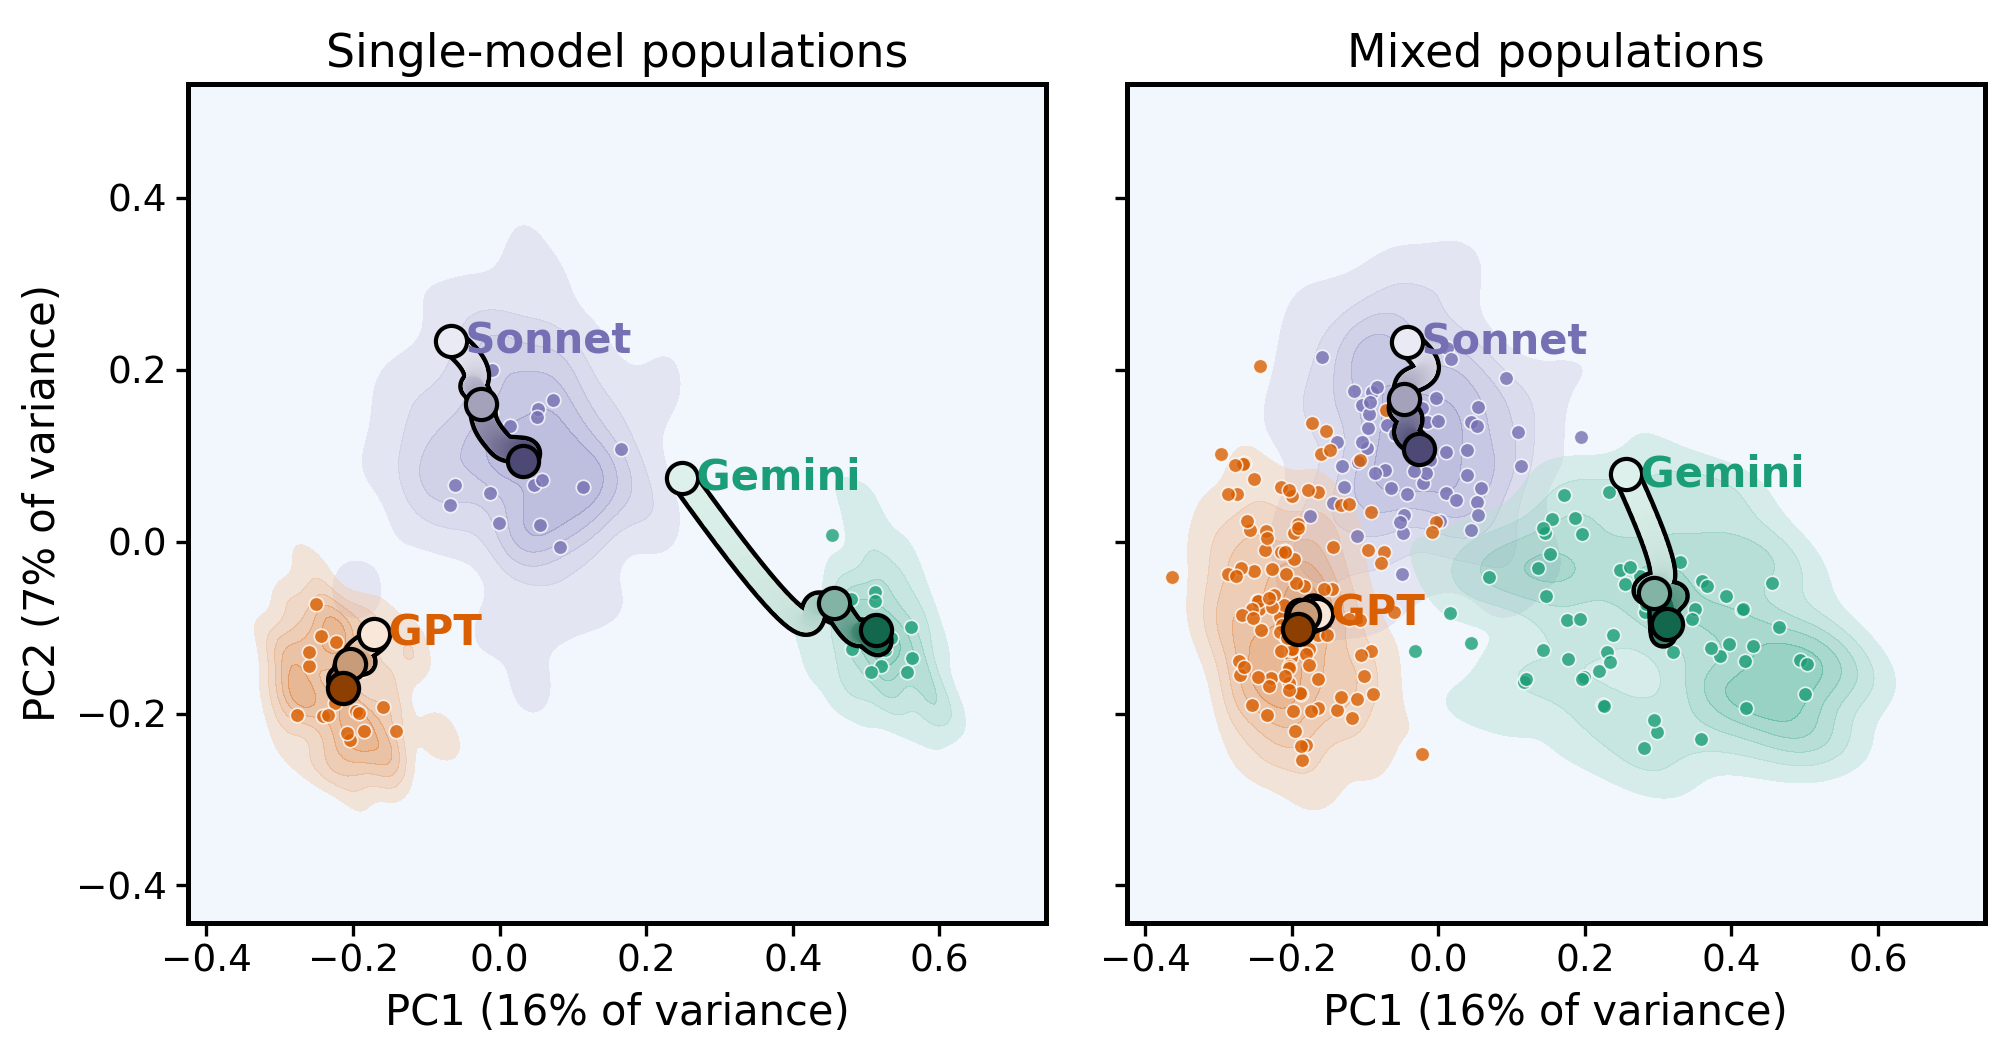
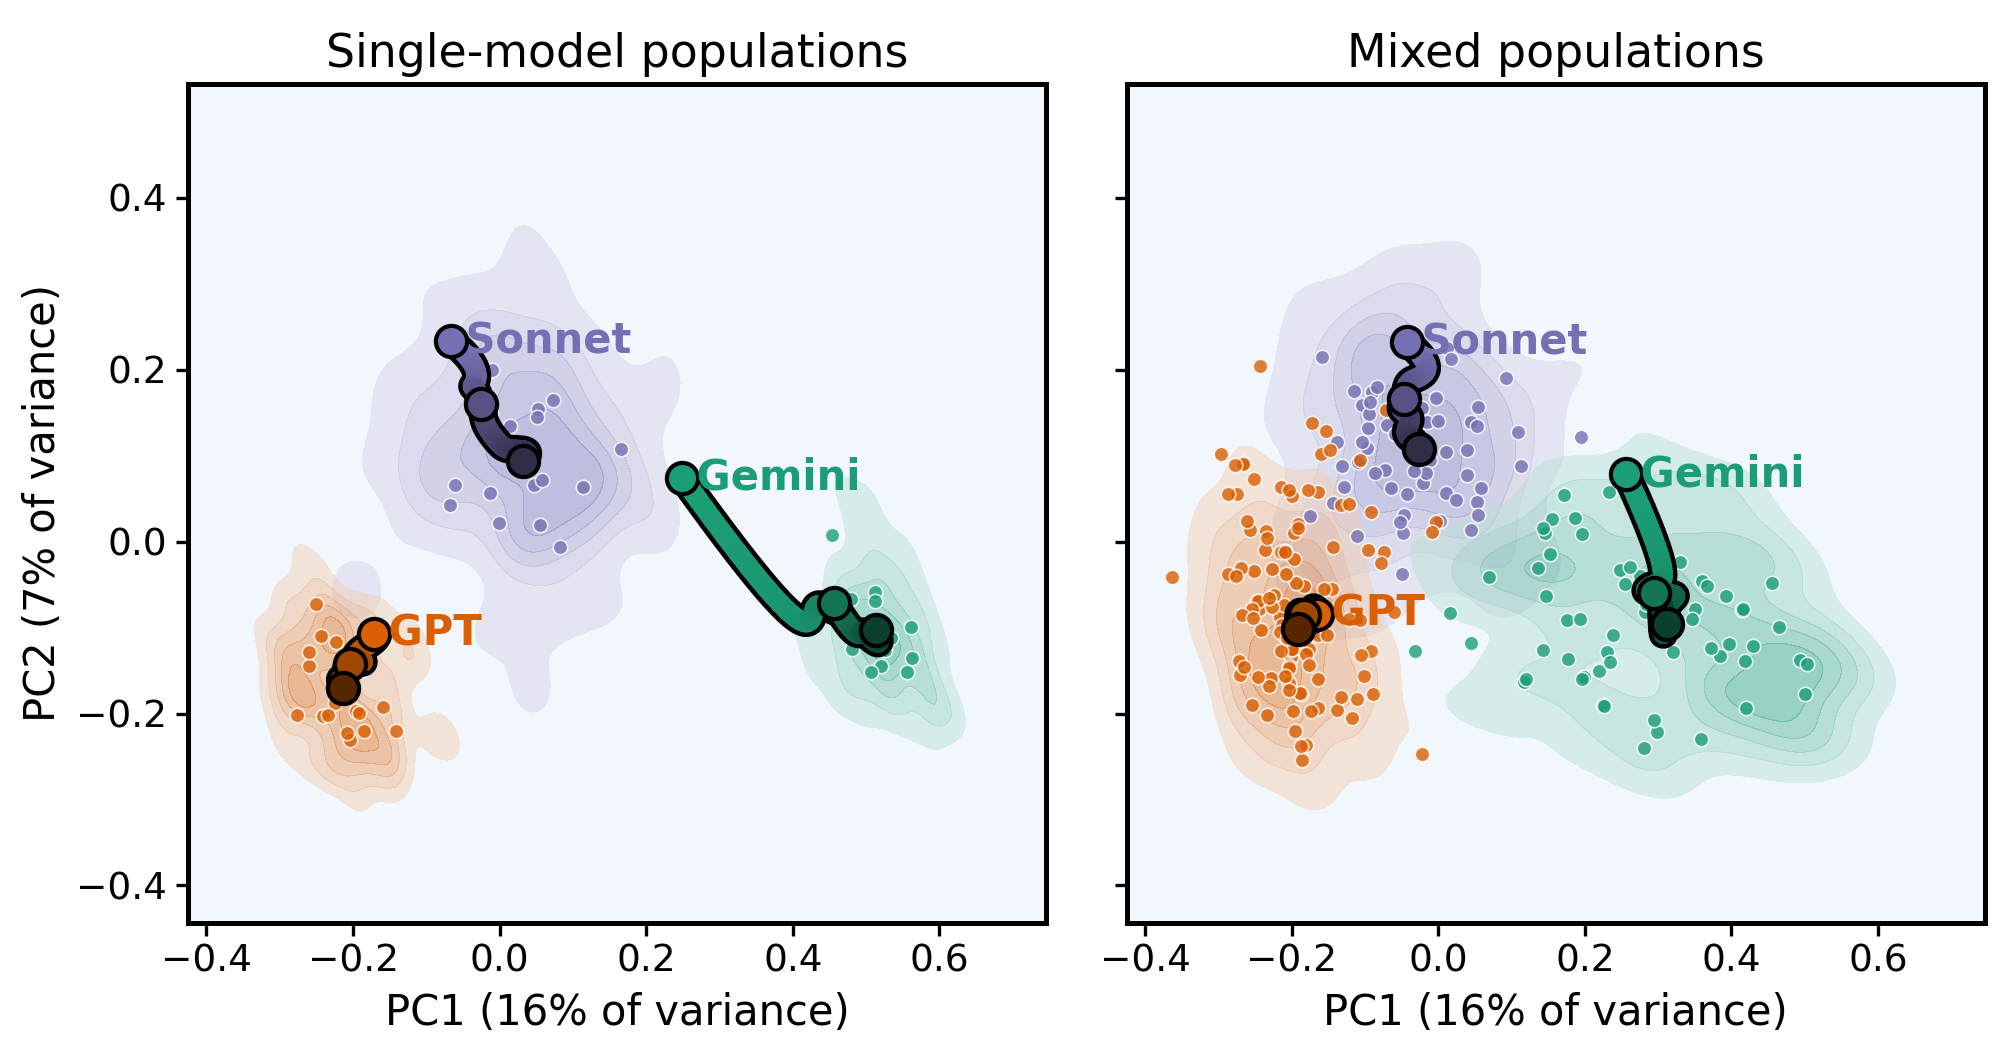
Myth trajectory maps: round 1 in the family colour, darkening to round 10

diff --git a/analyses/plot_myth_trajectory_panel.py b/analyses/plot_myth_trajectory_panel.py
@@ -5,7 +5,7 @@ The trajectory view of myth_convergence_map.py (trajectories_8agent.png), on the
 same PCA map of all 300 n = 10 myth runs, with two changes for the paper: the two
 task orders are pooled into one panel per mixing condition, and the background is
 coloured by family (where that family's round-10 myths end up) instead of one blue
-density. Line = family average per round, light -> dark = round 1 -> 10; big dots =
+density. Line = family average per round, family colour -> dark = round 1 -> 10; big dots =
 rounds 1, 5, 10; small dots = each run's family average at round 10.
 8-agent populations (paper Figure 5b) by default; --size 2 draws the dyads (supplementary).
 The task-order split is in trajectories_<n>agent.png;
@@ -36,10 +36,9 @@ GROUP = {8: "populations", 2: "dyads"}
 
 
 def tone(color, t: float):
-    """t=0: pale tint (round 1); t=1: the family colour darkened by a third (round 10)."""
+    """t=0: the family colour (round 1); t=1: the family colour at 40% brightness (round 10)."""
     c = np.array(to_rgb(color))
-    pale, dark = 1 - (1 - c) * 0.15, c * 0.65
-    return tuple(pale + (dark - pale) * t)
+    return tuple(c * (1 - 0.6 * t))
 PATH_LW = 2.4
 
 
@@ -77,7 +76,7 @@ def main() -> None:
             sx = make_interp_spline(rounds, path.x, k=3)(t)
             sy = make_interp_spline(rounds, path.y, k=3)(t)
             ax.plot(sx, sy, color="k", lw=PATH_LW + 1.1, solid_capstyle="round", zorder=4)  # outline
-            for a in range(len(t) - 1):  # pale -> dark = round 1 -> 10
+            for a in range(len(t) - 1):  # family colour -> dark = round 1 -> 10
                 ax.plot(sx[a:a + 2], sy[a:a + 2], color=tone(color, a / len(t)), lw=PATH_LW,
                         solid_capstyle="round", zorder=4.5)
             # no arrowhead: the spline's last few points wiggle, so a head points the wrong way;
